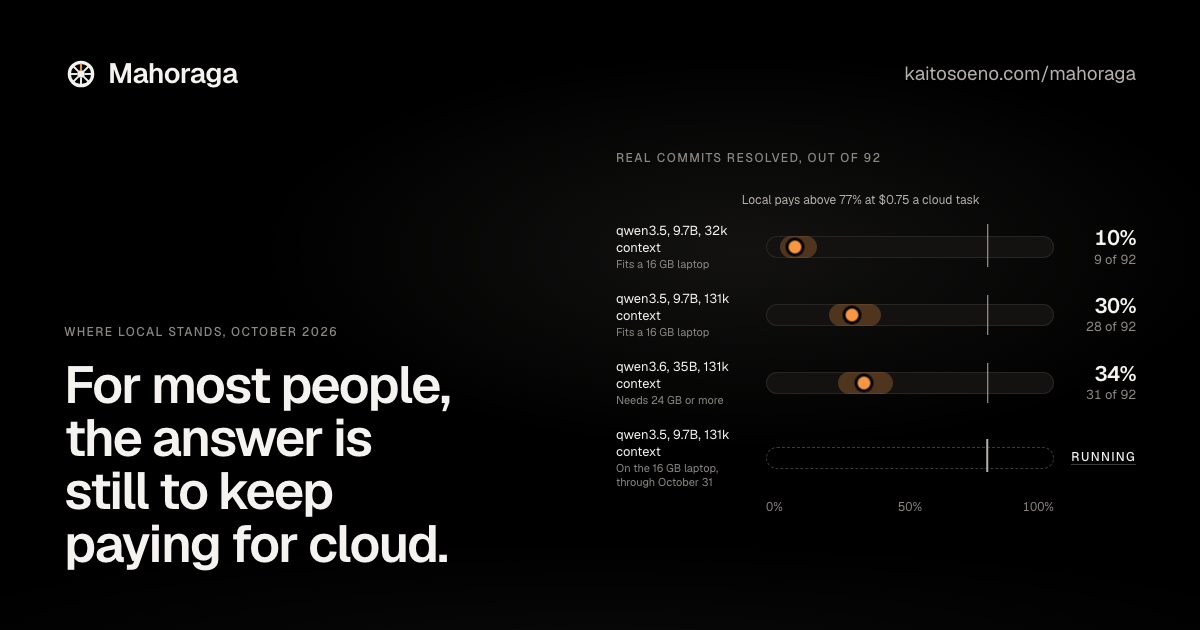
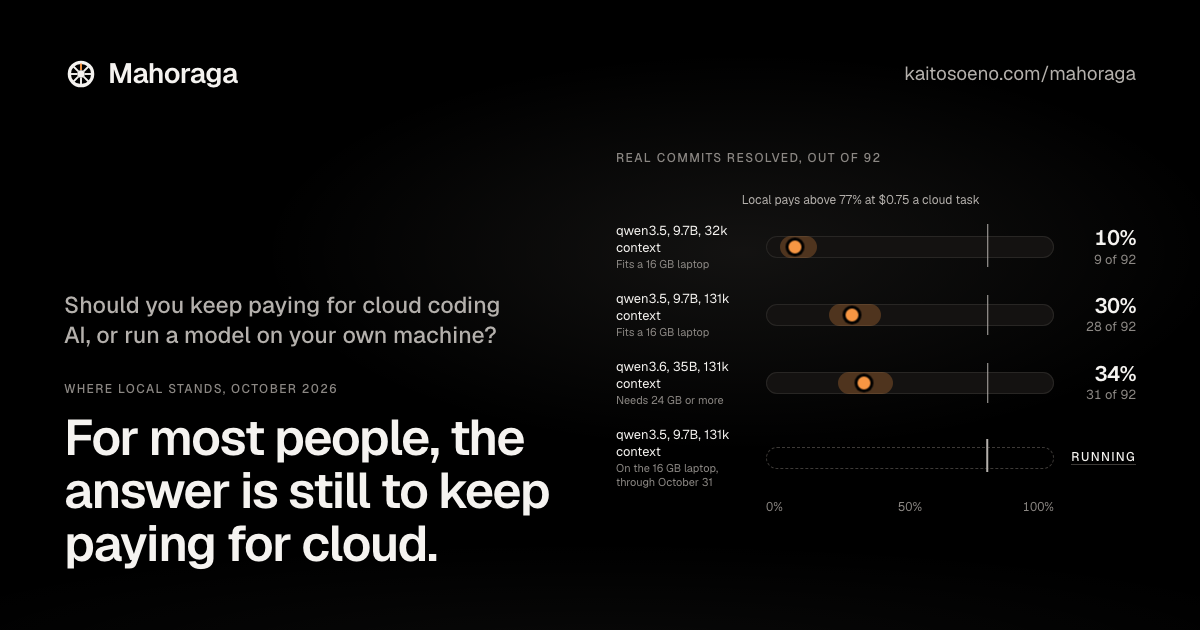
feat(site): the research page opens on the question it answers, with the answer under it
The hero led with its answer alone. It now reads the way a paper states its
question and then its finding. The question is the h1, in a panel of its
own: "Should you keep paying for cloud coding AI, or run a model on your own
machine?" The dated answer sits under it, "For most people, the answer is
still to keep paying for cloud", followed by the method line, the actions
and the chart. The social card carries the question above the answer.

- Japanese: the question breaks between phrases like the old h1 did, and it
  stays the larger of the two. The chart's labels no longer break inside
  コンテキスト, 「92 件中 9 件」 gets the room it needs in the narrow
  chart, and the menu pill's label stays on one line.
- verify checks that the question is the h1 in its panel and that the
  answer follows it, and the layout block checks both are on the first
  screen. "The bar frosts past the hero" now scrolls past the hero's real
  bottom instead of a fixed 1.5 screens.

Changed region(s): [[0.0308, 0.573, 0.4625, 0.9048], [0.0308, 0.4524, 0.4317, 0.5429]]

diff --git a/site/app/globals.css b/site/app/globals.css
@@ -343,8 +343,9 @@ code,
   animation: rise var(--mh-dur-enter) var(--mh-ease) both;
 }
 
+.hero__label,
 .hero__eyebrow {
-  margin-bottom: var(--mh-s-4);
+  margin-bottom: var(--mh-s-3);
   font-size: 12px;
   font-weight: 500;
   letter-spacing: 0.12em;
@@ -352,11 +353,32 @@ code,
   color: var(--mh-faint);
 }
 
-.hero__statement {
-  font-size: clamp(32px, min(3.8vw, 6.6svh), 62px);
+/* The question is the page's main text, in a panel of its own. */
+.hero__question {
+  padding: var(--mh-s-5) var(--mh-s-6);
+  border: 1px solid var(--mh-line);
+  border-radius: var(--mh-radius-panel);
+  background: var(--mh-surface);
+}
+
+.hero__ask {
+  font-size: clamp(26px, min(2.9vw, 5svh), 46px);
   font-weight: 600;
-  line-height: 1.02;
-  letter-spacing: -0.035em;
+  line-height: 1.06;
+  letter-spacing: -0.03em;
+  text-wrap: pretty;
+}
+
+/* The answer as it stands, under the question it answers. */
+.hero__answer {
+  margin-top: var(--mh-s-5);
+}
+
+.hero__statement {
+  font-size: clamp(22px, min(2.4vw, 4.2svh), 38px);
+  font-weight: 600;
+  line-height: 1.06;
+  letter-spacing: -0.03em;
   text-wrap: balance;
 }
 
@@ -454,8 +476,20 @@ code,
     justify-content: space-between;
   }
 
+  .hero__question {
+    padding: var(--mh-s-4) var(--mh-s-5) var(--mh-s-5);
+  }
+
+  .hero__ask {
+    font-size: clamp(26px, 7.2vw, 36px);
+  }
+
+  .hero__answer {
+    margin-top: var(--mh-s-5);
+  }
+
   .hero__statement {
-    font-size: clamp(32px, 8.6vw, 44px);
+    font-size: clamp(22px, 6vw, 30px);
   }
 }
 
@@ -1808,6 +1842,7 @@ html.js .reveal:not([data-shown]) {
   align-items: center;
   justify-content: center;
   gap: calc(0.8 * var(--site-rem));
+  white-space: nowrap;
   min-width: calc(7 * var(--site-rem));
   padding: 0 calc(1.25 * var(--site-rem));
 }
@@ -1898,6 +1933,11 @@ html.js .reveal:not([data-shown]) {
     --gap: var(--mh-s-3);
   }
 
+  /* 「92 件中 9 件」 needs a little more room than "9 of 92". */
+  :lang(ja) .standing {
+    --value: 5.25rem;
+  }
+
   .standing__row,
   .standing__be-label,
   .standing__axis {
@@ -1960,15 +2000,26 @@ html.js .reveal:not([data-shown]) {
   line-break: strict;
 }
 
-:lang(ja) :is(.hero__statement, .h2, .step__title, .vdemo__means, .entry__title) {
+:lang(ja) :is(.hero__ask, .hero__statement, .h2, .step__title, .vdemo__means, .entry__title) {
   letter-spacing: 0.01em;
   line-height: 1.3;
   font-feature-settings: "palt";
   word-break: auto-phrase;
 }
 
+/* Japanese sets larger at the same size, so both steps sit lower, with the
+   question still the larger of the two. */
+:lang(ja) .hero__ask {
+  font-size: clamp(24px, min(2.6vw, 4.6svh), 40px);
+}
+
 :lang(ja) .hero__statement {
-  font-size: clamp(28px, 3.6vw, 56px);
+  font-size: clamp(20px, min(2.1vw, 3.8svh), 32px);
+}
+
+/* A label breaks between phrases, never inside コンテキスト. */
+:lang(ja) .standing__label {
+  word-break: auto-phrase;
 }
 
 :lang(ja) .h2 {
@@ -1986,6 +2037,7 @@ html.js .reveal:not([data-shown]) {
 :lang(ja) .pipeline__caption,
 :lang(ja) .vdemo__assumed-title,
 :lang(ja) .notes__title,
+:lang(ja) .hero__label,
 :lang(ja) .hero__eyebrow,
 :lang(ja) .standing__title,
 :lang(ja) .log__month-title,

diff --git a/site/content/copy.ts b/site/content/copy.ts
@@ -11,7 +11,7 @@ export type Locale = "en" | "ja";
 export interface Dict {
   meta: Record<"research" | "engine" | "install", { title: string; description: string }>;
   nav: { research: string; engine: string; install: string; github: string; label: string; updated: (date: string) => string };
-  hero: { eyebrow: string; statement: string; sub: string; cta: string; more: string };
+  hero: { questionLabel: string; question: string; eyebrow: string; statement: string; sub: string; cta: string; more: string };
   standing: {
     title: (n: number) => string;
     caption: (n: number) => string;
@@ -161,6 +161,8 @@ const en: Dict = {
   },
   nav: { research: "Research", engine: "Engine", install: "Install", github: "GitHub", label: "Mahoraga", updated: (d) => `Updated ${d}` },
   hero: {
+    questionLabel: "The question",
+    question: "Should you keep paying for cloud coding AI, or run a model on your own machine?",
     eyebrow: "Where local stands, October 2026",
     statement: "For most people, the answer is still to keep paying for cloud.",
     sub: "Mahoraga measures local coding AI on real code, and this page is its log. Each attempt is graded by the repository's own tests, and every number here is recomputed from committed data.",
@@ -406,6 +408,8 @@ const ja: Dict = {
   },
   nav: { research: "研究", engine: "エンジン", install: "インストール", github: "GitHub", label: "Mahoraga", updated: (d) => `${d} 更新` },
   hero: {
+    questionLabel: "問い",
+    question: "クラウドのコーディング AI に払い続けるべきか、それとも自分のマシンでモデルを動かすべきか。",
     eyebrow: "ローカルの現在地（2026 年 10 月）",
     statement: "多くの人にとって、答えは今もクラウドに払い続けることです。",
     sub: "Mahoraga は実際のコードでローカルのコーディング AI を測り、このページはその記録です。各試行はそのリポジトリ自身のテストで採点し、ここにある数字はすべてコミット済みのデータから計算し直しています。",

diff --git a/site/components/Research.tsx b/site/components/Research.tsx
@@ -40,11 +40,19 @@ export function Research({ t, locale }: { t: Dict; locale: Locale }) {
       {/* ── Hero: where local stands ── */}
       <section className="hero" data-hero aria-labelledby="hero-title">
         <div className="hero__stage" aria-hidden />
+        {/* The question the research answers is the page's main text, and the
+            current answer sits under it, dated, as a paper states its finding. */}
         <div className="hero__text">
-          <p className="hero__eyebrow">{t.hero.eyebrow}</p>
-          <h1 id="hero-title" className="hero__statement">
-            {t.hero.statement}
-          </h1>
+          <div className="hero__question">
+            <p className="hero__label">{t.hero.questionLabel}</p>
+            <h1 id="hero-title" className="hero__ask">
+              {t.hero.question}
+            </h1>
+          </div>
+          <div className="hero__answer">
+            <p className="hero__eyebrow">{t.hero.eyebrow}</p>
+            <p className="hero__statement">{t.hero.statement}</p>
+          </div>
           <p className="hero__sub">{t.hero.sub}</p>
         </div>
         <div className="hero__chart">

diff --git a/brain/decisions/2026-10-29-landing-page-is-the-log.md b/brain/decisions/2026-10-29-landing-page-is-the-log.md
@@ -22,9 +22,12 @@ corrections in its section 6.
 
 ## Decision
 
-1. **The page opens on where local stands, and the H1 gives the answer.** The hero draws the
-   three October claims against the rate local needs at $0.75 a task, and says that for most
-   people the answer is still to keep paying for cloud. The laptop's own run is a row marked
+1. **The page opens on the question it answers, and the answer sits under it**, the way a
+   paper states its question and then its finding. The question is the H1, in a panel of its
+   own, and the dated answer under it says that for most people the answer is still to keep
+   paying for cloud (Kaito's call, the same day, after the first draft led with the answer
+   alone). The hero draws the three October claims against the rate local needs at $0.75 a
+   task. The laptop's own run is a row marked
    running, with no interim counts, since reading a rate while it runs is how a measurement
    fools its author.
 2. **A dated log replaces the evidence and corrections sections.** `content/log.ts` holds every
